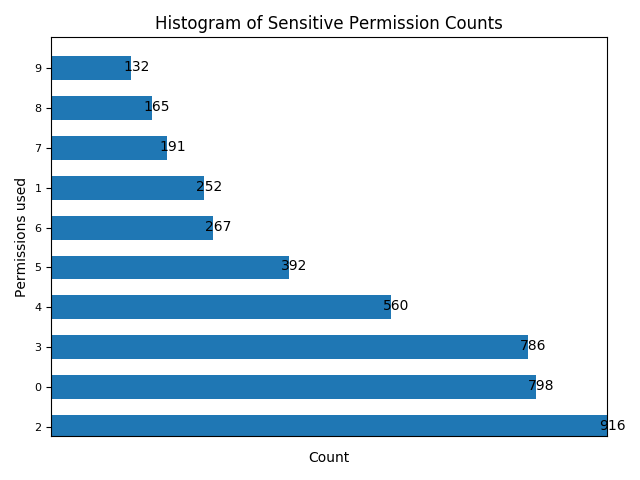
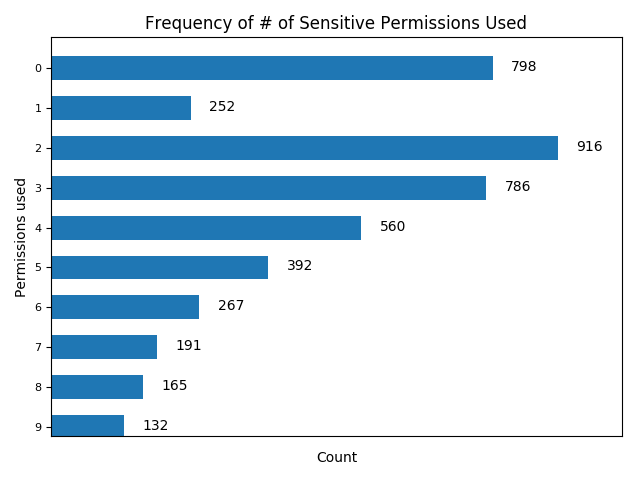
clean up graphs

diff --git a/perm_dist.py b/perm_dist.py
@@ -24,16 +24,17 @@ def get_apps_by_downloads(client):
     return [a[1] for a in apps[0:num_apps]]
 
 def graph(hist, title, ylabel, fname):
-    y_values = sorted(list(hist.keys()))
+    y_values = sorted(list(hist.keys()), reverse=True)
     x_pos = np.array([hist[k] for k in y_values])
     y_pos = np.arange(len(y_values))
+    rint(x_pos, y_pos, y_values)
     graph = plt.barh(y_pos, x_pos, height = 0.6, align = "center")
 
     #scale axes to make space
-    xMax = x_pos[len(x_pos)-1]
-    yMax = y_pos[len(y_pos)-1]
-    plt.xlim(xmax = (xMax + xMax/8.0))
-    plt.ylim(ymin = -(yMax/40.0))
+    xMax = max(x_pos)
+    yMax = max(y_pos)
+    plt.xlim(right = (xMax + xMax/8.0))
+    plt.ylim(bottom = -(yMax/40.0))
 
     #set axes labels and tick labels and title
     plt.xlabel("Count")
@@ -55,6 +56,7 @@ def graph(hist, title, ylabel, fname):
 
     plt.tight_layout()
     plt.savefig(fname)
+    plt.show()
     plt.clf()
     plt.close()
 
@@ -71,9 +73,8 @@ def perm_type_hists(perms, apps):
 
     hist_tuples = list(hist.items())
     hist_tuples.sort(reverse=True, key=lambda a: a[1])
-    hist = dict(hist_tuples[0:10])
-    print(hist)
-    graph(hist, "Histogram of Sensitive Permission Types", "Permission", "permtypes.png")
+    hist = dict([(k.strip("android.permission."), v) for (k, v) in hist_tuples[0:10]])
+    graph(hist, "10 Most Used Sensitive Permission Types", "Permission", "permtypes.png")
 
 def perm_count_hists(perms, apps):
     hist = {}
@@ -91,8 +92,7 @@ def perm_count_hists(perms, apps):
     hist_tuples = list(hist.items())
     hist_tuples.sort(reverse=True, key=lambda a: a[1])
     hist = dict(hist_tuples[0:10])
-    print(hist)
-    graph(hist, "Histogram of Sensitive Permission Counts", "Permissions used", "permcounts.png")
+    graph(hist, "Frequency of # of Sensitive Permissions Used", "Permissions used", "permcounts.png")
 
 def permissions():
     client = pymongo.MongoClient(host=constants.DB_HOST,
